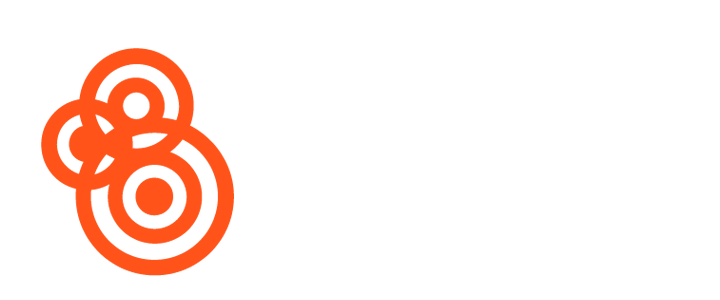
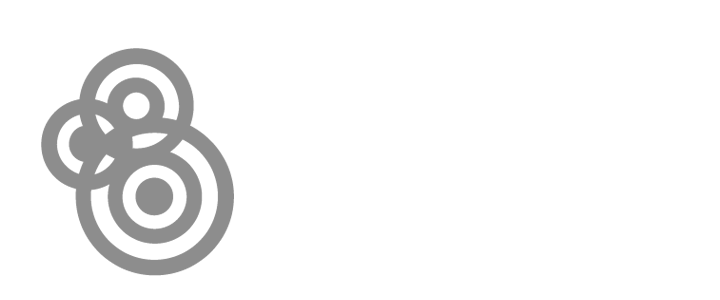
Add files via upload

Changed region(s): [[0.0306, 0.15, 0.3361, 0.93]]

diff --git a/resilience-b/index.html b/resilience-b/index.html
@@ -15,8 +15,8 @@
         body{
             font-family: 'Roboto', sans-serif;
             font-weight: 300;
-            color:black;
-            background:white;
+            color:white;
+            background:#222;
         }
 
 
@@ -46,7 +46,7 @@
         }
         
 
-        aside{overflow-x: hidden;}
+        aside{overflow: hidden;}
 
         #desplegar div {
             display: none;
@@ -115,11 +115,18 @@
 <aside id="play"></aside>
 
 <footer class="mt-3">
-  <div class="container py-3 text-muted small">
-    <p class="float-right">
-      <a href="#">Back to top</a>
-    </p>
-    <p>Prototipo 4 | Diseñando resiliencia.</p>
+  <div class="container py-3 small">
+
+  <div class="row">
+      
+    <div class="col-sm-7 text-center text-sm-left"><p class="mt-5 ml-sm-2">DESIGNING RESILIENCE @ CHILE</p></div>
+    <div class="col-sm-5 text-center text-sm-right">
+        <div class="row">
+            <div class="col"><a href="http://diseno.uc.cl/" target="_blank"><img src="../img/escuela.png" class="img-fluid mx-3 mb-2"></a></div>
+            <div class="col"><a href="http://cigiden.cl/" target="_blank"><img src="../img/cigiden.png" class="img-fluid mx-3 mb-2"></a></div>
+        </div>   
+    </div>
+  </div>
 
     </div>
 </footer>
@@ -199,16 +206,16 @@
 <script src="https://cdnjs.cloudflare.com/ajax/libs/p5.js/0.8.0/p5.min.js"></script>
 
 <script>
-let noiseScale=0.025;
+let noiseScale=0.02;
 
 function setup(){
-    createCanvas(windowWidth,100).parent("play");
+    createCanvas(windowWidth,50).parent("play");
     background("#fbc02d");
-    stroke(255);
+    stroke("#222222");
     strokeWeight(2)
     for (let x=0; x < width; x++) {
         let noiseVal = noise((mouseX+x)*noiseScale, mouseY*noiseScale);
-        line(x, noiseVal*50, x, height);
+        line(x, noiseVal*40, x, height);
     }
 }
 

diff --git a/index.html b/index.html
@@ -16,7 +16,6 @@
         <div class="col py-5">
           <p><a href="resilience-a/index.html">A</a></p>
           <p><a href="resilience-b/index.html">B</a></p>
-          <p><a href="resilience-c/index.html">C</a></p>        
         </div>
       </div>
     </div>
